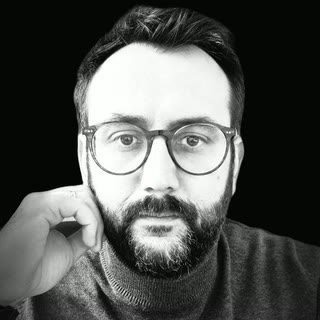
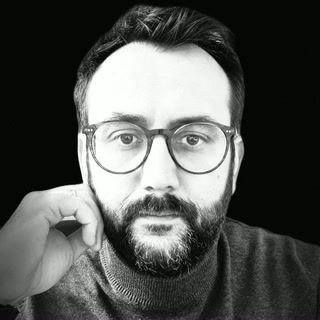
Porträt schärfer: höhere Qualität und passende Anzeigegröße
Bessere Pixel gibt es nicht — die Datei aus der Squarespace-Seite hat
632 x 635 px, die Seite selbst ist seit heute abgelaufen und im Internet
Archive nicht gesichert. Deshalb zwei Stellschrauben, die ohne neue Datei
wirken:

- Die drei Web-Fassungen neu aus dem Original codiert, mit deutlich
  höherer Qualität (AVIF crf 33 -> 26, WebP 78 -> 90, JPEG q4 -> q2).
- Das Porträt wird jetzt mit 316 statt 380 px angezeigt, also genau der
  halben Kantenlänge der Datei. Auf Bildschirmen mit doppelter
  Pixeldichte ist es damit gestochen scharf statt weichgerechnet.

diff --git a/index.html b/index.html
@@ -33,7 +33,7 @@
 <!-- ?v= nach JEDER Änderung an style.css oder main.js hochzählen — hier, in
      impressum.html und datenschutz.html. ALL-INKL hält CSS/JS laut .htaccess
      einen Monat im Browser vor. -->
-<link rel="stylesheet" href="assets/css/style.css?v=2026-09-17-6" />
+<link rel="stylesheet" href="assets/css/style.css?v=2026-09-17-7" />
 </head>
 <body>
 
@@ -970,7 +970,7 @@
   <div class="fuss__wort" aria-hidden="true">Memic</div>
 </footer>
 
-<script src="assets/js/main.js?v=2026-09-17-6"></script>
+<script src="assets/js/main.js?v=2026-09-17-7"></script>
 
 <script type="application/ld+json">
 {

diff --git a/datenschutz.html b/datenschutz.html
@@ -11,7 +11,7 @@
 <meta name="theme-color" content="#f2f1ed" />
 <link rel="icon" href="favicon.svg" type="image/svg+xml" />
 <link rel="preload" href="assets/fonts/inter-tight-latin.woff2" as="font" type="font/woff2" crossorigin />
-<link rel="stylesheet" href="assets/css/style.css?v=2026-09-17-6" />
+<link rel="stylesheet" href="assets/css/style.css?v=2026-09-17-7" />
 </head>
 <body>
 
@@ -167,6 +167,6 @@
   </div>
 </footer>
 
-<script src="assets/js/main.js?v=2026-09-17-6"></script>
+<script src="assets/js/main.js?v=2026-09-17-7"></script>
 </body>
 </html>

diff --git a/impressum.html b/impressum.html
@@ -11,7 +11,7 @@
 <meta name="theme-color" content="#f2f1ed" />
 <link rel="icon" href="favicon.svg" type="image/svg+xml" />
 <link rel="preload" href="assets/fonts/inter-tight-latin.woff2" as="font" type="font/woff2" crossorigin />
-<link rel="stylesheet" href="assets/css/style.css?v=2026-09-17-6" />
+<link rel="stylesheet" href="assets/css/style.css?v=2026-09-17-7" />
 </head>
 <body>
 
@@ -184,6 +184,6 @@
   </div>
 </footer>
 
-<script src="assets/js/main.js?v=2026-09-17-6"></script>
+<script src="assets/js/main.js?v=2026-09-17-7"></script>
 </body>
 </html>

diff --git a/ueber-uns.html b/ueber-uns.html
@@ -11,7 +11,7 @@
 <meta name="theme-color" content="#f2f1ed" />
 <link rel="icon" href="favicon.svg" type="image/svg+xml" />
 <link rel="preload" href="assets/fonts/inter-tight-latin.woff2" as="font" type="font/woff2" crossorigin />
-<link rel="stylesheet" href="assets/css/style.css?v=2026-09-17-6" />
+<link rel="stylesheet" href="assets/css/style.css?v=2026-09-17-7" />
 </head>
 <body>
 
@@ -128,6 +128,6 @@
   </div>
 </footer>
 
-<script src="assets/js/main.js?v=2026-09-17-6"></script>
+<script src="assets/js/main.js?v=2026-09-17-7"></script>
 </body>
 </html>

diff --git a/assets/css/style.css b/assets/css/style.css
@@ -1243,7 +1243,9 @@ body.fenster-offen { overflow: hidden; }
 .profil { border-top: 1px solid var(--linie); }
 .profil__in {
   display: grid;
-  grid-template-columns: minmax(0, 380px) minmax(0, 1fr);
+  /* 316 px = die halbe Kantenlänge der Bilddatei (632 px). So ist das Porträt
+     auch auf Bildschirmen mit doppelter Pixeldichte gestochen scharf. */
+  grid-template-columns: minmax(0, 316px) minmax(0, 1fr);
   gap: clamp(2rem, 1rem + 5vw, 7rem);
   align-items: start;
 }

diff --git a/assets/img/MEDIEN.md b/assets/img/MEDIEN.md
@@ -10,7 +10,7 @@ wählt selbst das kleinste passende. Die Originale liegen **nicht** im Repo, son
 | `foto-bewehrung-{960,1600,2560}` | Bewehrungskorb von unten, s/w, auf 2:1 beschnitten | Unsplash, **JANG RACHEL** (@rachelhee), Foto-ID `ug3PIey6fI4` | Unsplash-Lizenz | „Symbolbild“ im Foto-Band |
 | `foto-halle-{800,1200,1800}` | Stahltragwerk mit PV-Modulen, fast entsättigt | Unsplash, **Hasnan Monir** (@monirhasnan), Foto-ID `7UqBA8aBf2E` | Unsplash-Lizenz | „Symbolbild“ bei den Bauaufgaben |
 | `foto-fachwerk-{1280,2560}` | Fachwerkträger, s/w | Unsplash, **Anton Maksimov** (@juvnsky), Foto-ID `ieFQLMfamIo` | Unsplash-Lizenz | „Hintergrund: Symbolbild“ im Kontakt |
-| `denis-memic-{320,632}` | Porträt des Inhabers | von der bisherigen Website ib-memic.de (632 × 635 px) | Herr Memic | – |
+| `denis-memic-{320,632}` | Porträt des Inhabers | von der bisherigen Website ib-memic.de (632 × 635 px), Original in `Desktop\Memic\Stock\memic-portrait-original.png` | Herr Memic | Wird mit 316 px angezeigt, also genau halbe Dateigröße = scharf auf 2×-Bildschirmen |
 | `logo-ibm-marke.svg`, `favicon.svg` | Bildmarke iBM | neu gezeichnet nach dem bisherigen Logo | eigene Arbeit | – |
 
 | `plan-p0{1..4}-{1400,2800}` | Ausführungspläne P-01 bis P-04 (Dachkonstruktion, Decken über DG/OG/EG), A2, M 1:50 | Pläne von **iBM – Ingenieurbüro Memic**, Projekt 31-DM/26 (Neubau eines Dreifamilienhauses, 2026), von Bilal als Bauherr zur Verfügung gestellt | Herr Memic (Planverfasser) – Freigabe bei der Vorstellung einholen | Abschnitt „Arbeitsweise“ |
@@ -48,3 +48,10 @@ ist vermutlich KI-generiert. Nur das Porträt stammt erkennbar von Herrn Memic s
 2. In `fotos-bauen.sh` die Quelldatei austauschen und das Skript laufen lassen.
 3. In `index.html` den `alt`-Text anpassen und die Beschriftung „Symbolbild“ entfernen.
 4. Im Impressum den Bildnachweis anpassen.
+
+**Porträt in höherer Auflösung:** Die Squarespace-Seite ib-memic.de ist seit dem 17.09.2026
+abgelaufen ("Website Expired"), das Bild ist dort also nicht mehr in besserer Auflösung zu holen;
+im Internet Archive gibt es keine Sicherung. Eine schärfere Fassung kann nur von Herrn Memic
+selbst kommen — am besten die Originaldatei aus Kamera oder Handy, nicht über WhatsApp geschickt
+(WhatsApp rechnet Bilder herunter). Ab 960 px Kantenlänge lohnt der Tausch. Skript dafür:
+`Desktop/Memic/portraet-bauen.sh`.
